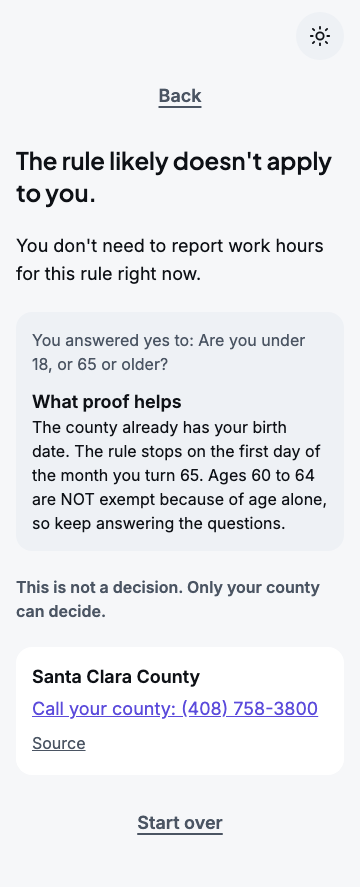
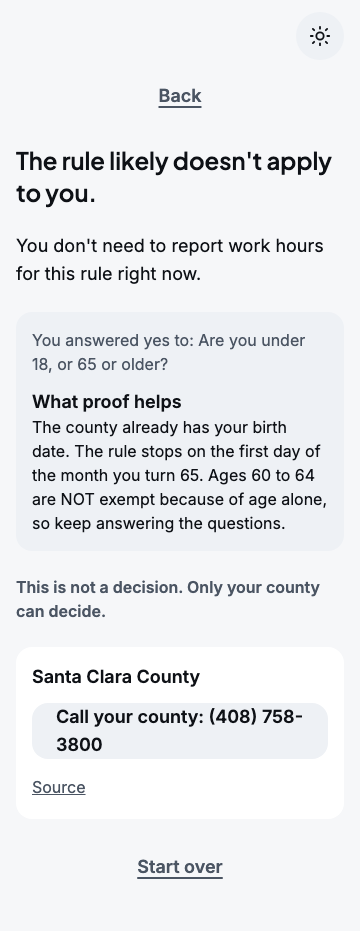
fix(screener): proof on unsure, localized source, blocked-storage test, call button
Fix round 1 from review + controller rulings:
- ask_county reached via "not sure" was missing its proof block after the
  prior "don't say yes when unsure" fix; now the rule/proof always attach
  when ruleId resolves, and Result shows becauseYes vs. the new
  becauseUnsure message depending on the actual answer given.
- Added common.source ("Source"/"Fuente") instead of a hard-coded English
  label on the result screen.
- Added e2e case 7: a sessionStorage that throws on every access no longer
  breaks the screener (question 1 -> answer -> question 2, no pageerror).
- The "Call your county" link is now a full-width 56px tap target (styled
  like the other buttons) with its href normalized to tel:+1<digits>.

diff --git a/src/app/screener/Result.tsx b/src/app/screener/Result.tsx
@@ -3,13 +3,19 @@
 import type { RefObject } from "react";
 import { useTranslations } from "next-intl";
 import { ruleText } from "@/lib/rules/engine";
-import type { DisplayOutcome, Lang } from "@/lib/rules/engine";
+import type { Answer, DisplayOutcome, Lang } from "@/lib/rules/engine";
 import type { Rule, County } from "@/lib/rules/schema";
-import { Button } from "@/components/ui/Button";
+import { Button, buttonClasses } from "@/components/ui/Button";
+
+function telHref(phone: string): string {
+  const digits = phone.replace(/\D/g, "");
+  return `tel:+1${digits}`;
+}
 
 export function Result({
   outcome,
   rule,
+  answer,
   county,
   lang,
   headingRef,
@@ -17,6 +23,7 @@ export function Result({
 }: {
   outcome: DisplayOutcome;
   rule: Rule | null;
+  answer: Answer | undefined;
   county: County;
   lang: Lang;
   headingRef: RefObject<HTMLHeadingElement | null>;
@@ -38,7 +45,11 @@ export function Result({
 
       {rule && ruleTexts && (
         <div className="rounded-2xl bg-surface-2 p-4">
-          <p className="text-base text-text-muted">{rt("becauseYes", { question: ruleTexts.question })}</p>
+          <p className="text-base text-text-muted">
+            {answer === "unsure"
+              ? rt("becauseUnsure", { question: ruleTexts.question })
+              : rt("becauseYes", { question: ruleTexts.question })}
+          </p>
           <p className="mt-3 font-semibold text-text">{st("whatProofHelps")}</p>
           <p className="text-base text-text">
             {ruleTexts.proof}
@@ -49,21 +60,19 @@ export function Result({
 
       <p className="text-base font-semibold text-text-muted">{rt("notDecision")}</p>
 
-      <div className="rounded-2xl bg-surface p-4">
+      <div className="rounded-2xl bg-surface p-4 flex flex-col gap-3">
         <p className="text-lg font-semibold text-text">{county.name}</p>
-        <a href={`tel:${county.phone}`} className="inline-block py-1 text-lg text-signal underline">
+        <a href={telHref(county.phone)} className={buttonClasses({ size: "lg", fullWidth: true })}>
           {t("callCounty", { phone: county.phone })}
         </a>
-        <div>
-          <a
-            href={sourceUrl}
-            target="_blank"
-            rel="noreferrer"
-            className="inline-block py-1 text-base text-text-muted underline"
-          >
-            Source
-          </a>
-        </div>
+        <a
+          href={sourceUrl}
+          target="_blank"
+          rel="noreferrer"
+          className="inline-block py-1 text-base text-text-muted underline"
+        >
+          {t("source")}
+        </a>
       </div>
 
       <Button variant="ghost" onClick={onStartOver}>

diff --git a/src/app/screener/Screener.tsx b/src/app/screener/Screener.tsx
@@ -91,11 +91,11 @@ export function Screener() {
 
   if (step.type === "result") {
     const outcome = displayOutcome(ruleSet, step);
-    // "Because you answered yes" only makes sense when the answer that produced this
-    // result actually WAS "yes" (e.g. ask_county can also be reached by answering
-    // "not sure" to any question, and it would be wrong to tell the user they said yes).
-    const answeredYes = step.ruleId !== null && answers[step.ruleId] === "yes";
-    const rule = answeredYes ? ruleSet.rules.find((r) => r.id === step.ruleId) ?? null : null;
+    const rule = step.ruleId ? ruleSet.rules.find((r) => r.id === step.ruleId) ?? null : null;
+    // The rule can be attached to this result via a "yes" answer (e.g. an exemption) or
+    // an "unsure" answer (ask_county is reachable from unsure on ANY question). Result
+    // needs to know which, so it never claims the user said yes when they said unsure.
+    const answer = step.ruleId ? answers[step.ruleId] : undefined;
 
     return (
       <Screen>
@@ -103,6 +103,7 @@ export function Screener() {
         <Result
           outcome={outcome}
           rule={rule}
+          answer={answer}
           county={ruleSet.county}
           lang={locale}
           headingRef={headingRef}

diff --git a/e2e/screener.spec.ts b/e2e/screener.spec.ts
@@ -103,6 +103,32 @@ test("Unsure on question 1 leads to the ask-county result with a tel: link", asy
 
   const text = await bodyText(page);
   expect(text).toContain("Your county can");
+  expect(text).toContain("What proof helps");
+  await expect(page.getByText("What proof helps")).toBeVisible();
+
   const telLink = page.locator('a[href^="tel:"]');
   await expect(telLink).toBeVisible();
+  await expect(telLink).toHaveAttribute("href", "tel:+14087583800");
+});
+
+test("A blocked sessionStorage does not break the screener", async ({ page }) => {
+  const errors: string[] = [];
+  page.on("pageerror", (err) => errors.push(err.message));
+
+  await page.addInitScript(() => {
+    Object.defineProperty(window, "sessionStorage", {
+      configurable: true,
+      get() {
+        throw new Error("blocked");
+      },
+    });
+  });
+
+  await goToScreener(page);
+
+  await expect(page.getByText("Question 1 of")).toBeVisible();
+  await answer(page, "No");
+  await expect(page.getByText("Question 2 of")).toBeVisible();
+
+  expect(errors).toEqual([]);
 });

diff --git a/docs/AI-USE.md b/docs/AI-USE.md
@@ -12,3 +12,4 @@
 | 2026-09-25 | `src/app/globals.css`, `src/lib/theme/__tests__/css-sync.test.ts`, `src/components/ui/ThemeToggle.tsx` | Fix round 1, three controller-ruled findings: (1) fonts were loaded in `layout.tsx` but never applied — added `--font-sans: var(--font-inter), system-ui, sans-serif` and `--font-display: var(--font-plus-jakarta-sans), system-ui, sans-serif` to `@theme inline`, set `body { font-family: var(--font-sans) }` and `h1, h2, h3 { font-family: var(--font-display) }`; verified the variable names against `layout.tsx`'s `variable:` options before wiring. (2) tokens.ts and globals.css had no test tying their hex values together — added `css-sync.test.ts`, which reads `globals.css` via `fs`, regex-extracts the `--<token>: #hex` declarations from the `:root` and `[data-theme="dark"]` blocks, and asserts each of the 9 tokens is present and matches `tokens.light`/`tokens.dark` case-insensitively (20 assertions); proved it catches drift by temporarily changing `--proof` to `#000000` in `:root` (RED: 1 failed, exit 1), then restoring the original value (GREEN: 20/20, exit 0). (3) ThemeToggle's emoji icons didn't fit the calm/bank-grade brand — replaced with inline SVG sun/moon icons (`stroke="currentColor"`, `aria-hidden="true"`, 22px, `strokeWidth 2`), and changed the accessible name to state the action ("Switch to dark mode" / "Switch to light mode" instead of "Dark mode" / "Light mode"), keeping the existing 48px `min-h-12 min-w-12` tap target | Controller rulings specified the exact CSS variable names, the css-sync test's approach (fs + regex extraction, RED/GREEN proof required), and the SVG icon attributes/sizing and new accessible-name wording verbatim |
 | 2026-09-25 | `src/i18n/request.ts`, `messages/en.json`, `messages/es.json`, `src/lib/i18n/__tests__/messages.test.ts`, `next.config.ts`, `src/app/layout.tsx`, `src/components/ui/ThemeToggle.tsx` | TDD (RED confirmed `Cannot find module '../../../../messages/en.json'`, then GREEN, 4/4 parity tests passing): wired next-intl for App Router without i18n routing (`createNextIntlPlugin` in `next.config.ts`, `getRequestConfig` in `src/i18n/request.ts` reading the `NEXT_LOCALE` cookie via `await cookies()`, defaulting to `en`), wrote `en.json`/`es.json` covering the `common`, `home`, `screener`, `result`, and `theme` namespaces (all UI chrome for Tasks 6-7; the rule question/proof text stays in `rules/ca-calfresh-2026.json`, picked by `ruleText()`, not duplicated here), made `layout.tsx` async to read the locale/messages and wrap `children` in `NextIntlClientProvider` with `<html lang={locale}>`, and localized `ThemeToggle`'s aria-label via `useTranslations('theme')` (`theme.toDark`/`theme.toLight`). Per the controller ruling, the five result outcomes with a `{reason}` placeholder in the task brief were rewritten to drop it entirely, matching the exact English strings the controller specified; **`es.json` was drafted by AI and needs native review** — no native Spanish speaker has checked the translations yet | Team's task-5 brief specified the exact file layout, the parity-test approach (flatten both message files, assert identical key sets, assert no empty `es` values, assert the exact `result.notDecision` copy in both languages), and the controller-ruled English result strings verbatim; Spanish translations (usted form, plain 6th-grade wording) were drafted by AI per the brief's explicit instruction to do so |
 | 2026-09-25 | `src/components/ui/{Button,ChoiceButtons,Screen}.tsx`, `src/app/page.tsx`, `src/app/screener/{page,Screener,Result}.tsx`, `playwright.config.ts`, `e2e/screener.spec.ts` | Built the one-question-per-screen screener UI and language picker per the task-6 brief: `Screener.tsx` restores/saves `answers` to `sessionStorage['hp.screener']` (try/catch around every access), computes `nextStep`/`goBack`/`displayOutcome`/`ruleText` from the Task 2/3 engine on every render, and moves focus to the question/result heading on each step change via a ref keyed on the current rule id (screen-reader requirement). `Button`/`ChoiceButtons` use only the token-backed Tailwind classes (`bg-surface-2`, `text-text`, etc. — no ad-hoc hex), with Yes/No/Not sure at `min-h-14` (56px) full width and Back/Start over at `min-h-12` (48px). Wrote `playwright.config.ts` (360x740 viewport, `webServer: npm run build && npm start` on port 7050) and 6 e2e cases covering the brief's exact scenarios; all 6 pass. Took 16 screenshots (8 screens x light/dark) to `docs/screenshots/phase1/` and reviewed each with the Read tool per the brief's explicit instruction, which caught two real bugs before commit: (1) a click-based dark-mode toggle race in the screenshot script itself (not a product bug, fixed by setting the `theme` localStorage key via `context.addInitScript` before navigation instead of clicking the toggle on every fresh tab), and (2) a real product bug — the Result screen's "You answered yes to: {question}" line was rendering even when the result came from answering **"not sure"** (the `ask_county` outcome is reachable both by an explicit "yes" to an info-rule and by "unsure" on any rule, and `Result.tsx` didn't distinguish the two). Fixed in `Screener.tsx` by only passing `rule` to `Result` when `answers[step.ruleId] === "yes"`, so the "not sure" path shows the outcome/proof/county content but never a fabricated "you said yes" | Team's task-6 brief specified the exact file layout, component responsibilities, e2e scenarios (verbatim wording to assert), and the screenshot review requirement; the "answered yes" mislabeling bug was found and fixed by AI during the mandated screenshot review, not by the team |
+| 2026-09-25 | `src/app/screener/Screener.tsx`, `src/app/screener/Result.tsx`, `messages/en.json`, `messages/es.json`, `e2e/screener.spec.ts` | Task 6 fix round 1, four ruled findings: (1) the previous round's "don't say yes when they said unsure" fix had over-corrected and dropped "What proof helps" entirely on the unsure→ask_county path — `Screener.tsx` now attaches `rule` whenever `step.ruleId` resolves (regardless of answer) and also passes the actual `answer`; `Result.tsx` renders `result.becauseYes` when the answer was "yes" and a new `result.becauseUnsure` ("You weren't sure about: {question}" / "No estaba seguro sobre: {question}") when it was "unsure", with "What proof helps" and the proof text (plus its own englishOnly tag) shown in both cases; added an e2e assertion in case 6 that "What proof helps" is visible. (2) Added a `common.source` key ("Source" / "Fuente") to both message files and used it in `Result.tsx` instead of the hard-coded English word; the messages parity test still passes (identical key sets, no empty values). (3) Added e2e case 7: overrides `window.sessionStorage` via `page.addInitScript` to throw on access, loads `/screener`, confirms question 1 renders, answers once, confirms question 2 renders, and asserts no `pageerror` fired — proving the try/catch storage guards in `Screener.tsx` actually work end-to-end, not just in isolation. (4) Controller ruling: the "Call your county" link was a plain underlined text link, likely under the 48px tap-target minimum — restyled as a full-width `min-h-14` (56px) button-look `<a>` (reusing `buttonClasses`), and normalized its `href` from the display phone string to `tel:+1<digits>` (e.g. `tel:+14087583800` for "(408) 758-3800"); added an e2e assertion on the exact `href`. Re-captured and re-reviewed all 5 result-type screenshots (light + dark) plus one Spanish result; confirmed the proof block, "Fuente"/"Source" label, and the new call-button tap target all render correctly in every case | Controller + review rulings specified the exact new message keys/copy, the `tel:+1<digits>` href format, and the e2e assertions verbatim; all four findings were verified by rerunning `npm test`, `npm run typecheck`, `npm run build`, and `npm run e2e` (7/7) with real exit codes, and by re-reading the re-captured screenshots |
